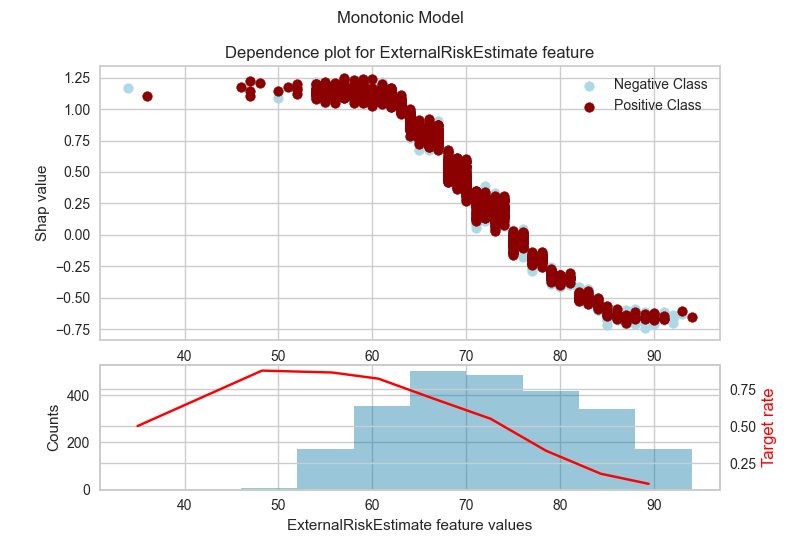
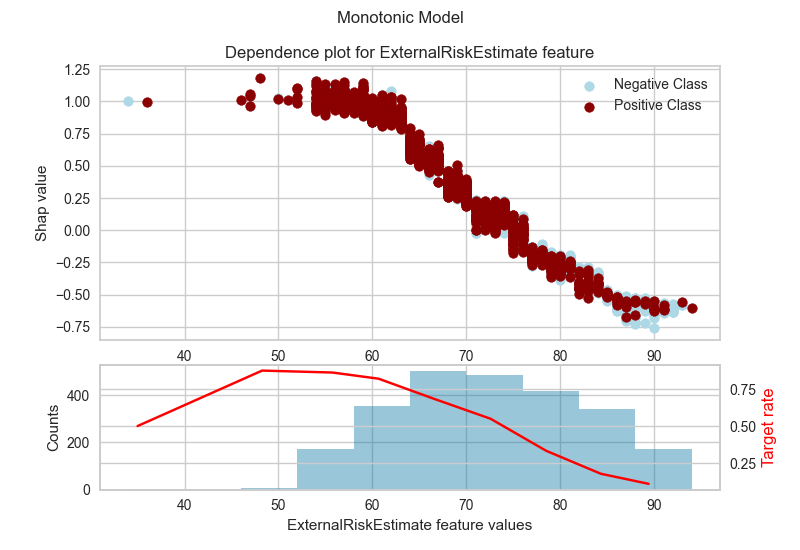
Optimising with monotonic constraints

Changed region(s): [[0.0625, 0.1236, 0.875, 0.6182]]

diff --git a/code/monotonic_constraint_heloc.py b/code/monotonic_constraint_heloc.py
@@ -28,6 +28,7 @@ logger.info(f"Test shape : {X_test.shape},{y_test.shape} ")
 
 data_dict = {'xtrain': X_train, 'ytrain': y_train,'xtest' : X_test, 'ytest' : y_test}
 logger.info("Selecting features")
+
 # Select the best features based on SHAPRFE CV
 # selected_features,fs_plot = select_features(data=data_dict,n_features=11,verbose=1)
 
@@ -40,12 +41,12 @@ selected_features = ['PercentTradesWBalance', 'PercentInstallTrades', 'ExternalR
 data_dict['xtrain'] = data_dict['xtrain'][selected_features]
 data_dict['xtest'] = data_dict['xtest'][selected_features]
 
-# Tune model parameters with Optuna.
-# Once the parameters are tuned, the model is trained and the results are evaluated.
-# We need not run this again.
+# # Tune model parameters with Optuna.
+# # Once the parameters are tuned, the model is trained and the results are evaluated.
+# # We need not run this again.
 
 # study = optuna.create_study(study_name='auc_objective',direction="maximize")
-# study.optimize(ROCAUCObjective(X_train,y_train), n_trials=20, timeout=300)
+# study.optimize(ROCAUCObjective(data_dict['xtrain'],data_dict['ytrain']), n_trials=15, timeout=300)
 # print("Number of finished trials: {}".format(len(study.trials)))
 # print("Best trial:")
 # trial = study.best_trial
@@ -55,10 +56,10 @@ data_dict['xtest'] = data_dict['xtest'][selected_features]
 #     print("    {}: {}".format(key, value))
 
 model_params = {
-    'n_estimators': 50,
-    'learning_rate': 0.10,
-    'num_leaves': 10,
-    'feature_fraction': 0.68
+    'n_estimators': 250,
+    'learning_rate': 0.2480,
+    'num_leaves': 3,
+    'feature_fraction': 0.75
 }
 
 # # # We can do further analysis on top 5 features.
@@ -86,7 +87,29 @@ for feature in top_5_features:
 # Train a LGB model with monotonicity constraints.
 
 logger.info("Training monotonic model")
-model_params['monotone_constraints']=get_monotone_constraints(data_dict=data_dict,target=target)
+monotonic_constraints=get_monotone_constraints(data_dict=data_dict,target=target)
+
+# Tune model parameters with Optuna.
+# Once the parameters are tuned, the model is trained and the results are evaluated.
+# We need not run this again.
+
+# study = optuna.create_study(study_name='auc_objective',direction="maximize")
+# study.optimize(ROCAUCObjective(data_dict['xtrain'],data_dict['ytrain'],monotonic_constraints),n_trials=15, timeout=300)
+# print("Number of finished trials: {}".format(len(study.trials)))
+# print("Best trial:")
+# trial = study.best_trial
+# print("  Value: {}".format(trial.value))
+# print("  Params: ")
+# for key, value in trial.params.items():
+#     print("    {}: {}".format(key, value))
+
+model_params = {
+    'n_estimators': 110,
+    'learning_rate': 0.1964,
+    'num_leaves': 176,
+    'feature_fraction': 0.43,
+    'monotone_constraints': monotonic_constraints
+}
 logger.info(f"Creating model with params : {model_params}")
 mono_lgb = lgb.LGBMClassifier(**model_params)
 mono_model = show_model_results(data=data_dict,model=mono_lgb,calc_threshold=False)

diff --git a/blog/model/optimise.py b/blog/model/optimise.py
@@ -4,8 +4,7 @@ import xgboost as xgb
 from sklearn.model_selection import cross_val_score
 import lightgbm as lgb
 import numpy as np
-
-
+from loguru import logger
 
 class MultiObjective(object):
     """
@@ -37,24 +36,48 @@ class ROCAUCObjective(object):
     Define an objective class to be able to pass parameters to the objective function.
 
     """
-    def __init__(self, X, y):
+    def __init__(self, X, y,monotone_constraints=None):
         # Hold the X,y data.
         self.X = X
         self.y= y
+        self.monotone_constraints = monotone_constraints
 
     def __call__(self, trial):
         # Calculate an objective value by using the extra arguments.
-        param_grid = {
-            "n_estimators": trial.suggest_int("n_estimators", 10, 500, step=10),
-            "learning_rate": trial.suggest_uniform("learning_rate", 0.01, 0.3),
-            'num_leaves': trial.suggest_int('num_leaves', 2, 256),
-            'feature_fraction': trial.suggest_float('feature_fraction',0.4,1.0),
-           
-            }
+        if self.monotone_constraints is not None:
+            #Create a parameter grid with monotonic constraints
+            logger.info("Monotone constraints")
+            param_grid = {
+                "n_estimators": trial.suggest_int("n_estimators", 10, 500, step=10),
+                "learning_rate": trial.suggest_uniform("learning_rate", 0.01, 0.3),
+                'num_leaves': trial.suggest_int('num_leaves', 2, 256),
+                'feature_fraction': trial.suggest_float('feature_fraction',0.4,1.0),
+                'monotone_constraints': self.monotone_constraints
+            
+                }
+        else:
+            logger.info("No monotone constraints")
+            param_grid = {
+                "n_estimators": trial.suggest_int("n_estimators", 10, 500, step=10),
+                "learning_rate": trial.suggest_uniform("learning_rate", 0.01, 0.3),
+                'num_leaves': trial.suggest_int('num_leaves', 2, 256),
+                'feature_fraction': trial.suggest_float('feature_fraction',0.4,1.0),
+            
+                }
         clf = lgb.LGBMClassifier(objective='binary',verbosity= -1, **param_grid)
-        roc_auc_scores = cross_val_score(clf, self.X, self.y, cv=3,scoring='roc_auc')
+        roc_auc_scores = cross_val_score(clf, self.X, self.y, cv=5,scoring='roc_auc')
         
-        return np.round(roc_auc_scores.mean(),5) 
+        objective_value = np.round(roc_auc_scores.mean(),5) 
+
+        """
+        # Return the objective value.
+        # Note that the higher the better.  
+        # """
+        if np.isnan(objective_value):
+            return 0.5
+        else:
+            return objective_value
+       
 
 class PRAUCObjective(object):
     """

diff --git a/blog/model/regularisation.py b/blog/model/regularisation.py
@@ -46,7 +46,6 @@ def select_features(data, n_features,verbose=1):
     # Select the best features based on validation score.
     if n_features is None:
         selected_feats = report[['features_set']].head(1).values[0]
-        
     else :
         selected_feats = shap_elimination.get_reduced_features_set(num_features=n_features)
     logger.info(f"Selected features : {selected_feats} ")
